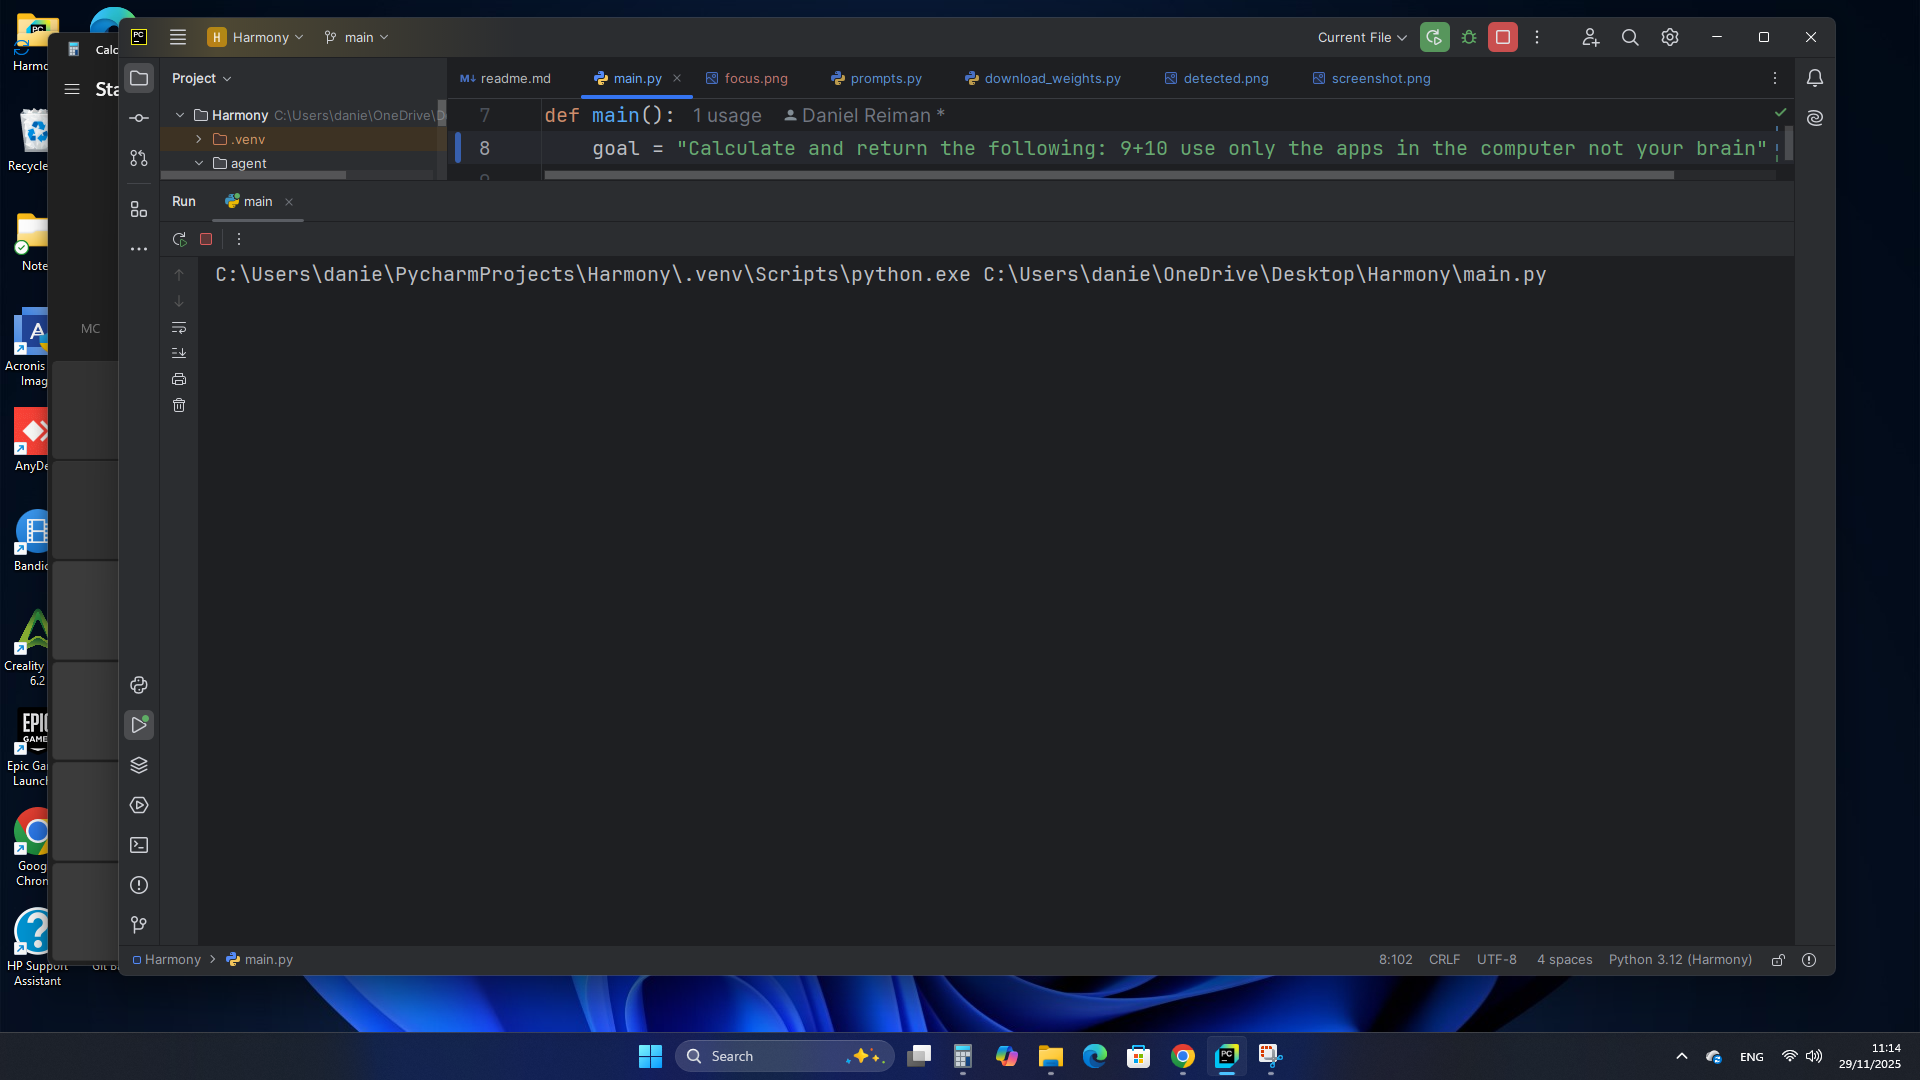
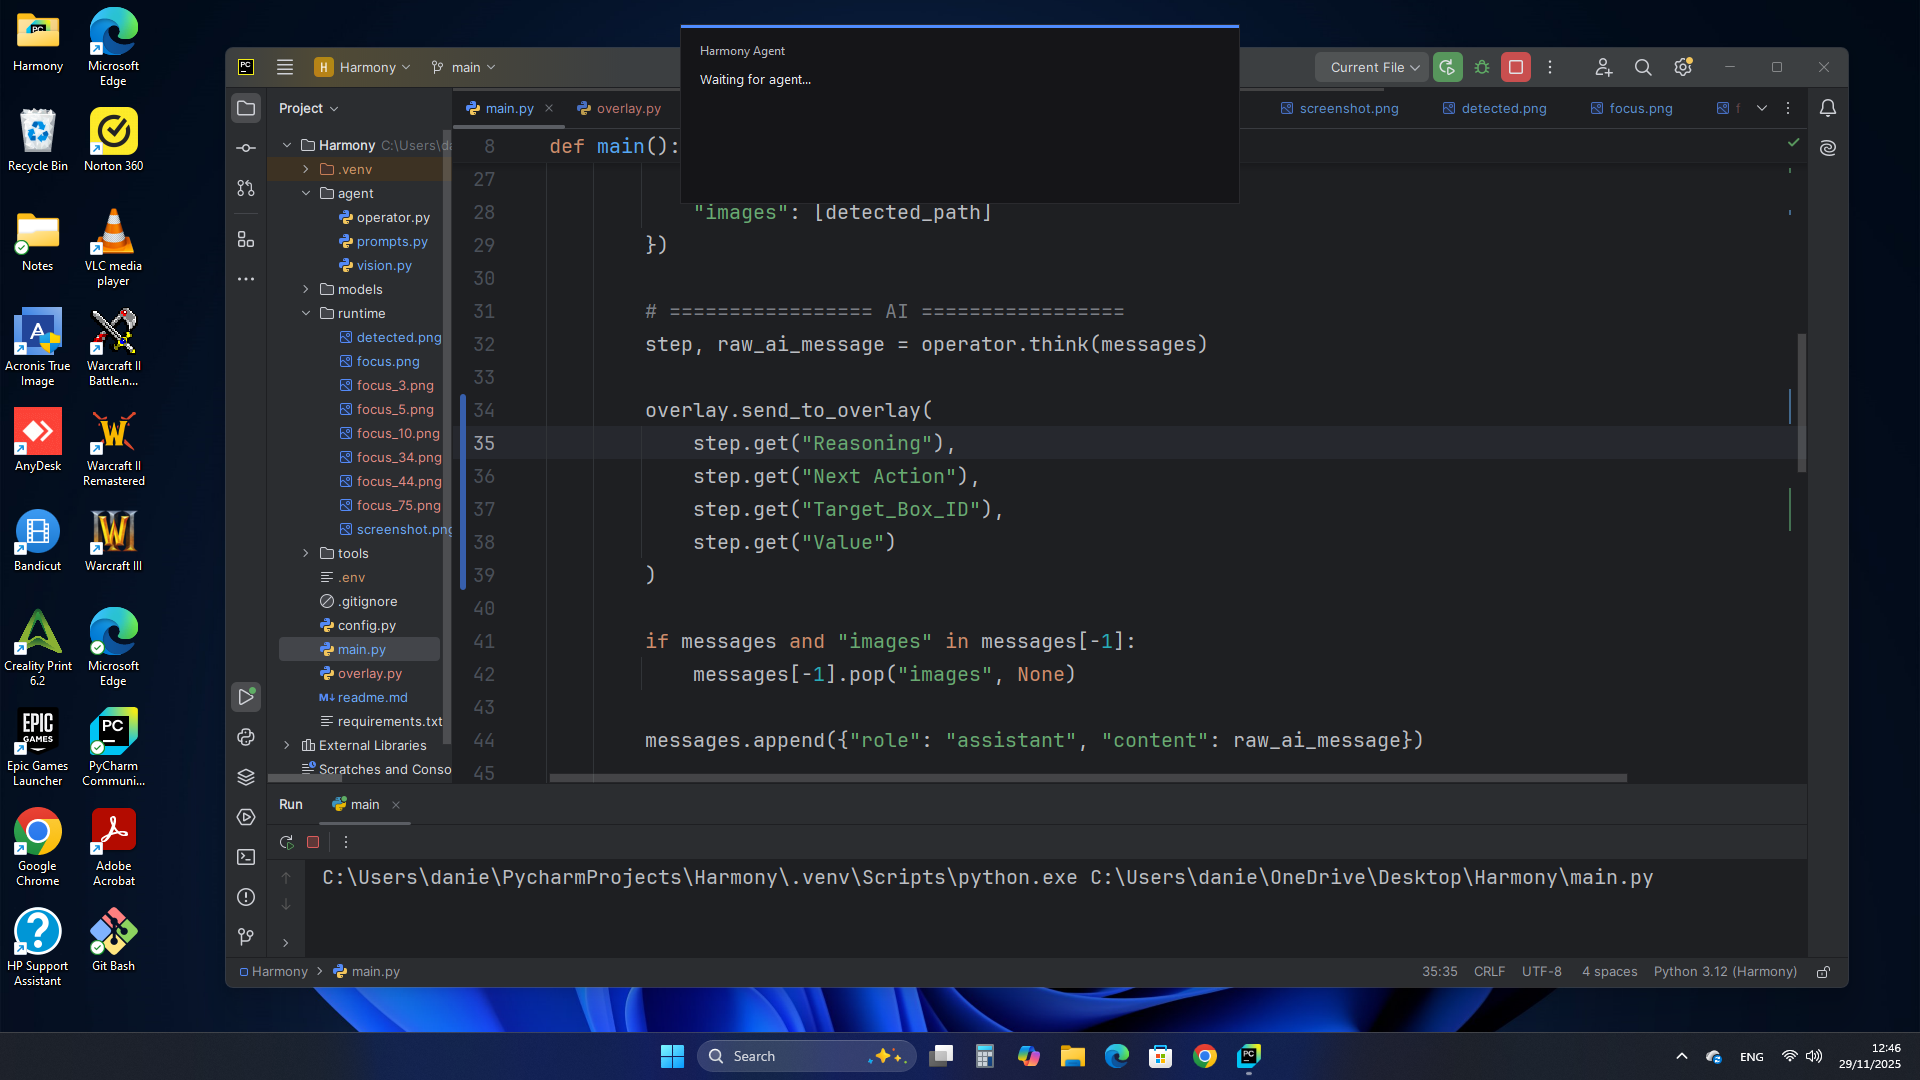
Add initial overlay UI concept and fix path resolution

diff --git a/overlay.py b/overlay.py
@@ -1,0 +1,251 @@
+import tkinter as tk
+import threading
+import queue
+import time
+import math
+import random
+
+ui_queue = queue.Queue()
+working_queue = queue.Queue()
+
+MOUSE_ICON = "🖱"
+KEY_ICON = "⌨"
+
+TRANSPARENT = "#ff00ff"
+
+PILL_BG = "#1b1e27"
+PILL_BORDER = "#2f3442"
+
+TEXT_MAIN = "#f4f5f9"
+ICON_COLOR = "#9aa3bb"
+
+REASON_BASE = "#cfd5e6"
+REASON_PULSE = "#ffffff"
+
+SCREEN_BORDER_BASE = "#2a2f3b"
+SCREEN_BORDER_PULSE = "#aab4ff"
+SCREEN_BORDER_SOFT = "#3a4160"
+
+agent_running = True
+
+
+def draw_round_rect(canvas, x, y, w, h, r, **kwargs):
+    points = [
+        x+r, y, x+w-r, y, x+w, y,
+        x+w, y+r, x+w, y+h-r, x+w, y+h,
+        x+w-r, y+h, x+r, y+h, x, y+h,
+        x, y+h-r, x, y+r, x, y
+    ]
+    return canvas.create_polygon(points, smooth=True, **kwargs)
+
+
+def create_screen_borders(root, color, thickness=2):
+    root.update_idletasks()
+    w = root.winfo_screenwidth()
+    h = root.winfo_screenheight()
+
+    def make(wi, hi, xi, yi):
+        t = tk.Toplevel(root)
+        t.overrideredirect(True)
+        t.attributes("-topmost", True)
+        t.configure(bg=color)
+        t.geometry(f"{wi}x{hi}+{xi}+{yi}")
+        return t
+
+    return {
+        "top": make(w, thickness, 0, 0),
+        "bottom": make(w, thickness, 0, h - thickness),
+        "left": make(thickness, h, 0, 0),
+        "right": make(thickness, h, w - thickness, 0),
+    }
+
+
+def mix_color(root, c1, c2, t):
+    a = root.winfo_rgb(c1)
+    b = root.winfo_rgb(c2)
+    r = int(a[0] + (b[0] - a[0]) * t) // 256
+    g = int(a[1] + (b[1] - a[1]) * t) // 256
+    b = int(a[2] + (b[2] - a[2]) * t) // 256
+    return f"#{r:02x}{g:02x}{b:02x}"
+
+
+def start_overlay(demo=True):
+    global agent_running
+
+    root = tk.Tk()
+    root.attributes("-topmost", True)
+    root.overrideredirect(True)
+    root.configure(bg=TRANSPARENT)
+    root.attributes("-transparentcolor", TRANSPARENT)
+
+    # Dimensions
+    pill_width = 520
+    height = 64
+    gap = 2
+    total_width = pill_width + height + gap
+
+    screen_w = root.winfo_screenwidth()
+    x = (screen_w // 2) - (total_width // 2)
+    y = 20
+
+    # Position BOTH as one centered stack
+    root.geometry(f"{pill_width}x{height}+{x}+{y}")
+
+    # ===== MAIN PILL =====
+    canvas = tk.Canvas(root, width=pill_width, height=height,
+                       bg=TRANSPARENT, highlightthickness=0)
+    canvas.pack(fill="both", expand=True)
+
+    radius = 26
+    pad = 5
+
+    draw_round_rect(canvas, pad + 2, pad + 2,
+                    pill_width - pad * 2, height - pad * 2, radius,
+                    fill="#0f1118", outline="")
+    draw_round_rect(canvas, pad, pad,
+                    pill_width - pad * 2 - 2, height - pad * 2 - 2,
+                    radius, fill=PILL_BG, outline=PILL_BORDER, width=1)
+
+    content = tk.Frame(canvas, bg=PILL_BG)
+    content.place(x=18, y=8, width=pill_width - 36, height=height - 16)
+
+    title_label = tk.Label(content, text="Harmony Agent",
+                           fg=TEXT_MAIN, bg=PILL_BG,
+                           font=("Segoe UI Semibold", 11))
+    title_label.pack(side="left")
+
+    right = tk.Frame(content, bg=PILL_BG)
+    right.pack(side="right", fill="both")
+
+    right_inner = tk.Frame(right, bg=PILL_BG)
+    right_inner.pack(expand=True)
+
+    action_row = tk.Frame(right_inner, bg=PILL_BG)
+    action_row.pack()
+
+    icon_label = tk.Label(action_row, text=KEY_ICON,
+                          fg=ICON_COLOR, bg=PILL_BG,
+                          font=("Segoe UI", 12))
+    icon_label.pack(side="left", padx=(0, 6))
+
+    reasoning_label = tk.Label(action_row, text="Awaiting instructions",
+                               fg=REASON_BASE, bg=PILL_BG,
+                               font=("Segoe UI", 10, "italic"))
+    reasoning_label.pack(side="left")
+
+    # ===== MINI X BUTTON (SAME HEIGHT, SAME STYLE, CENTERED AS STACK) =====
+    cancel_btn = tk.Toplevel(root)
+    cancel_btn.overrideredirect(True)
+    cancel_btn.attributes("-topmost", True)
+    cancel_btn.configure(bg=TRANSPARENT)
+    cancel_btn.attributes("-transparentcolor", TRANSPARENT)
+
+    cx = x + pill_width + gap
+    cancel_btn.geometry(f"{height}x{height}+{cx}+{y}")
+
+    btn_canvas = tk.Canvas(cancel_btn, width=height, height=height,
+                           bg=TRANSPARENT, highlightthickness=0)
+    btn_canvas.pack(fill="both", expand=True)
+
+    draw_round_rect(btn_canvas, pad + 2, pad + 2,
+                    height - pad * 2, height - pad * 2,
+                    radius, fill="#0f1118", outline="")
+    draw_round_rect(btn_canvas, pad, pad,
+                    height - pad * 2 - 2, height - pad * 2 - 2,
+                    radius, fill=PILL_BG, outline=PILL_BORDER, width=1)
+
+    btn_canvas.create_text(height // 2, height // 2,
+                           text="✕", fill=REASON_BASE,
+                           font=("Segoe UI", 12, "bold"))
+
+    def cancel_agent(event=None):
+        global agent_running
+        agent_running = False
+        working_queue.put(False)
+        ui_queue.put({"reasoning": "Agent paused by user", "mode": "keyboard"})
+
+    btn_canvas.bind("<Button-1>", cancel_agent)
+
+    # ===== CONTINUOUS SCREEN BORDER PULSE (NEVER DISAPPEARS) =====
+    outer = create_screen_borders(root, SCREEN_BORDER_SOFT, thickness=5)
+    inner = create_screen_borders(root, SCREEN_BORDER_BASE, thickness=2)
+
+    pulsing = False
+    phase = 0
+    reason_phase = 0
+
+    def animate_pulse():
+        nonlocal phase, reason_phase
+
+        # Always pulse. If idle, pulse softly.
+        base_intensity = 0.25 if not pulsing else 1.0
+        t = (math.sin(phase) + 1) / 2
+        t *= base_intensity
+
+        outer_c = mix_color(root, SCREEN_BORDER_SOFT, SCREEN_BORDER_PULSE, t * 0.6)
+        inner_c = mix_color(root, SCREEN_BORDER_BASE, SCREEN_BORDER_PULSE, t)
+
+        for b in outer.values():
+            b.configure(bg=outer_c)
+        for b in inner.values():
+            b.configure(bg=inner_c)
+
+        phase += 0.05
+
+        # Reasoning still pulses only when working
+        if pulsing:
+            tr = (math.sin(reason_phase) + 1) / 2
+            reason_c = mix_color(root, REASON_BASE, REASON_PULSE, tr)
+            reasoning_label.config(fg=reason_c)
+            reason_phase += 0.12
+        else:
+            reasoning_label.config(fg=REASON_BASE)
+
+        root.after(40, animate_pulse)
+
+    animate_pulse()
+
+    def update_overlay():
+        nonlocal pulsing
+
+        while not ui_queue.empty():
+            payload = ui_queue.get()
+            reasoning_label.config(text=payload["reasoning"])
+            icon_label.config(text=MOUSE_ICON if payload["mode"] == "mouse" else KEY_ICON)
+
+        if not working_queue.empty():
+            pulsing = working_queue.get()
+
+        root.after(60, update_overlay)
+
+    # ===== DEMO =====
+    if demo:
+        def run_demo():
+            global agent_running
+            while True:
+                agent_running = True
+                working_queue.put(True)
+
+                for step, mode in [
+                    ("Initializing system context", "keyboard"),
+                    ("Resolving active window", "mouse"),
+                    ("Validating operation target", "keyboard"),
+                    ("Executing task sequence", "mouse"),
+                    ("Finalizing response", "keyboard")
+                ]:
+                    if not agent_running:
+                        break
+                    ui_queue.put({"reasoning": step, "mode": mode})
+                    time.sleep(random.uniform(1.0, 2.0))
+
+                working_queue.put(False)
+                time.sleep(3)
+
+        threading.Thread(target=run_demo, daemon=True).start()
+
+    update_overlay()
+    root.mainloop()
+
+
+if __name__ == "__main__":
+    start_overlay(demo=True)

diff --git a/main.py b/main.py
@@ -1,11 +1,12 @@
 import time
 import keyboard
+import overlay
 from agent.vision import Vision
 from agent.operator import Operator
 from agent.prompts import MAIN_PROMPT
 
 def main():
-    goal = "Calculate and return the following: 9+10 use only the apps in the computer not your brain"
+    goal = "Calculate the result of the expression 9 + 10 using only computer applications, not internal reasoning."
 
     vision = Vision()
     operator = Operator("qwen3-vl:235b-cloud", vision)
@@ -30,12 +31,12 @@ def main():
         # ================= AI =================
         step, raw_ai_message = operator.think(messages)
 
-        print("\n┌───────────────────────────────────── ACTION CORE ─────────────────────────────────────┐")
-        print(f"│ REASONING  : {step.get('Reasoning', 'N/A')}")
-        print(f"│ ACTION     : {step.get('Next Action', 'N/A')}")
-        print(f"│ TARGET ID  : {step.get('Target_Box_ID', 'N/A')}")
-        print(f"│ VALUE      : {step.get('Value', 'N/A')}")
-        print("└────────────────────────────────────────────────────────────────────────────────────────┘\n")
+        overlay.send_to_overlay(
+            step.get("Reasoning"),
+            step.get("Next Action"),
+            step.get("Target_Box_ID"),
+            step.get("Value")
+        )
 
         if messages and "images" in messages[-1]:
             messages[-1].pop("images", None)
@@ -44,6 +45,13 @@ def main():
 
         # ================= STEP VERIFICATION =================
         focus_element_path = vision.focus(step["Target_Box_ID"], elements, screenshot_path)
+        if not focus_element_path:
+            messages.append({
+                "role": "user",
+                "content": "System feedback: Invalid target ID."
+            })
+            continue
+
         verdict = operator.verify(goal, focus_element_path, messages[-1])
 
         print("\n┌──────────────────────────────────── HARMONY VERIFIER ──────────────────────────────────┐")

diff --git a/agent/vision.py b/agent/vision.py
@@ -9,7 +9,7 @@ class ScreenParser:
             raise FileNotFoundError("Missing YOLO model weights at weights/icon_detect/model.pt")
         self.model = YOLO(model_path)
 
-    def extract(self, screenshot_path="./runtime/screenshot.png", detected_path="../runtime/detected.png", draw=True):
+    def extract(self, screenshot_path="./runtime/screenshot.png", detected_path="./runtime/detected.png", draw=True):
         results = self.model.predict(
             screenshot_path,
             conf=0.1,  # lower threshold: catch small or faint icons
@@ -106,14 +106,18 @@ class Vision:
         return None
 
     def focus(self, box_id, elements, screenshot_path):
-        cropped_path = "./runtime/focus.png"
+        coords = self.locate(box_id, elements)
+        if not coords:
+            return None
 
+        x1, y1, x2, y2 = coords
         img = Image.open(screenshot_path)
 
-        cropped_img = img.crop(self.locate(box_id, elements))
-        cropped_img.save(cropped_path)
+        cropped_path = f"./runtime/focus_{box_id}.png"
+        img.crop((x1, y1, x2, y2)).save(cropped_path)
 
         return cropped_path
+
 
 
 

diff --git a/agent/prompts.py b/agent/prompts.py
@@ -137,7 +137,7 @@ Return only valid JSON in this exact format:
 }
 
 Reject the action if:
-- The element does not clearly and directly support the goal
+- The element does not directly or indirectly support the goal
 - The interaction does not make sense for this specific element
 - The element identity is uncertain, generic, or visually meaningless
 - The action could lead to unintended behavior

diff --git a/readme.md b/readme.md
@@ -6,10 +6,8 @@ This README explains how to set up the environment, install the model, prepare t
 
 ---
 
-## Setup
 
-===============
-ONE COMMAND SETUP (Run Before Starting Harmony)
+## ONE COMMAND SETUP (Run Before Starting Harmony)
 
 macOS and Linux:
 ```bash
@@ -20,7 +18,8 @@ Windows PowerShell:
 ```bash
 python -m venv .venv; ..venv\Scripts\Activate.ps1; pip install -r requirements.txt; python download_weights.py
 ```
-===============
+
+## Setup
 
 ### Create the Python environment
 
